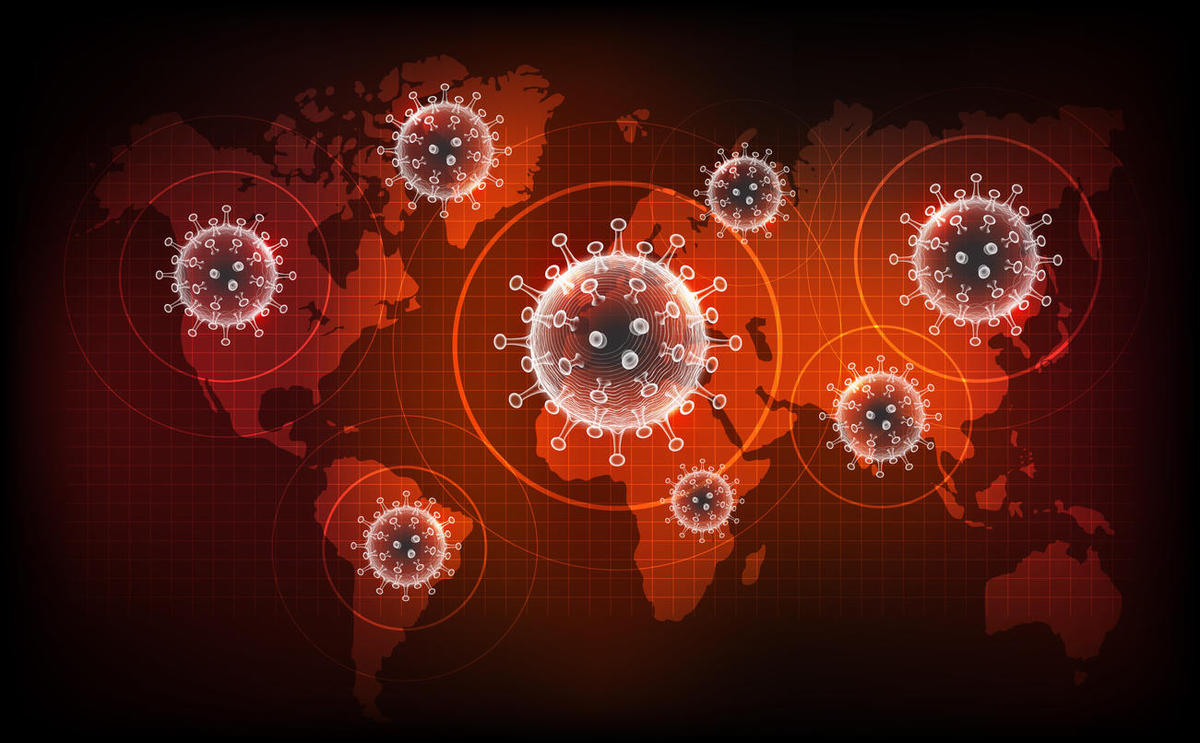
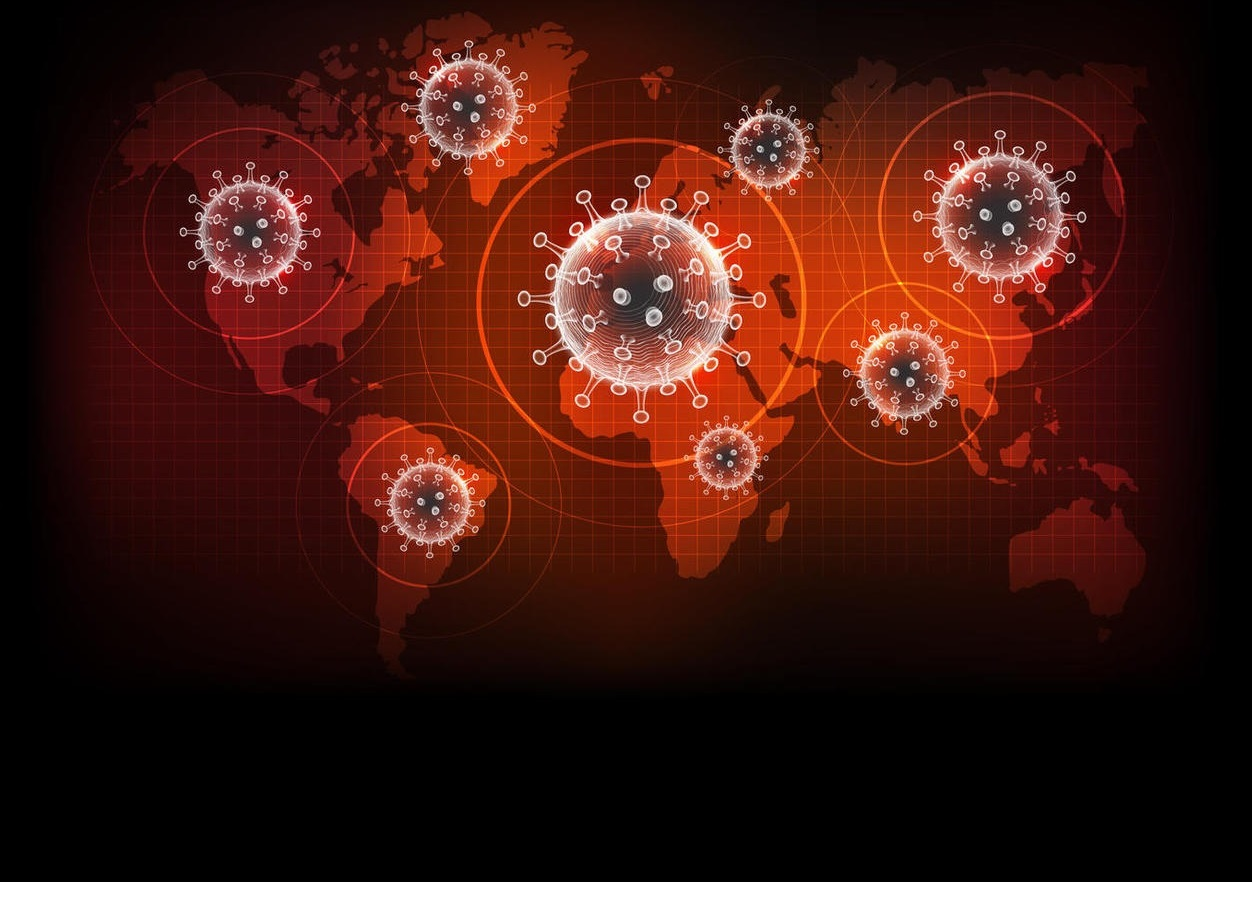
fixed landing page background image placement

diff --git a/client/src/components/pages/Landing.js b/client/src/components/pages/Landing.js
@@ -24,7 +24,7 @@ class Landing extends Component {
   render() {
     return (
       <div id="backgroundImg">
-        <Container transparent style={{ marginTop: 100, opacity: 0.9 }}>
+        <Container style={{ marginTop: 100, opacity: 0.9 }}>
           <Segment textAlign="center" >
             <Header as="h1" content="Covid Daily" />
             <Header as="h3">
